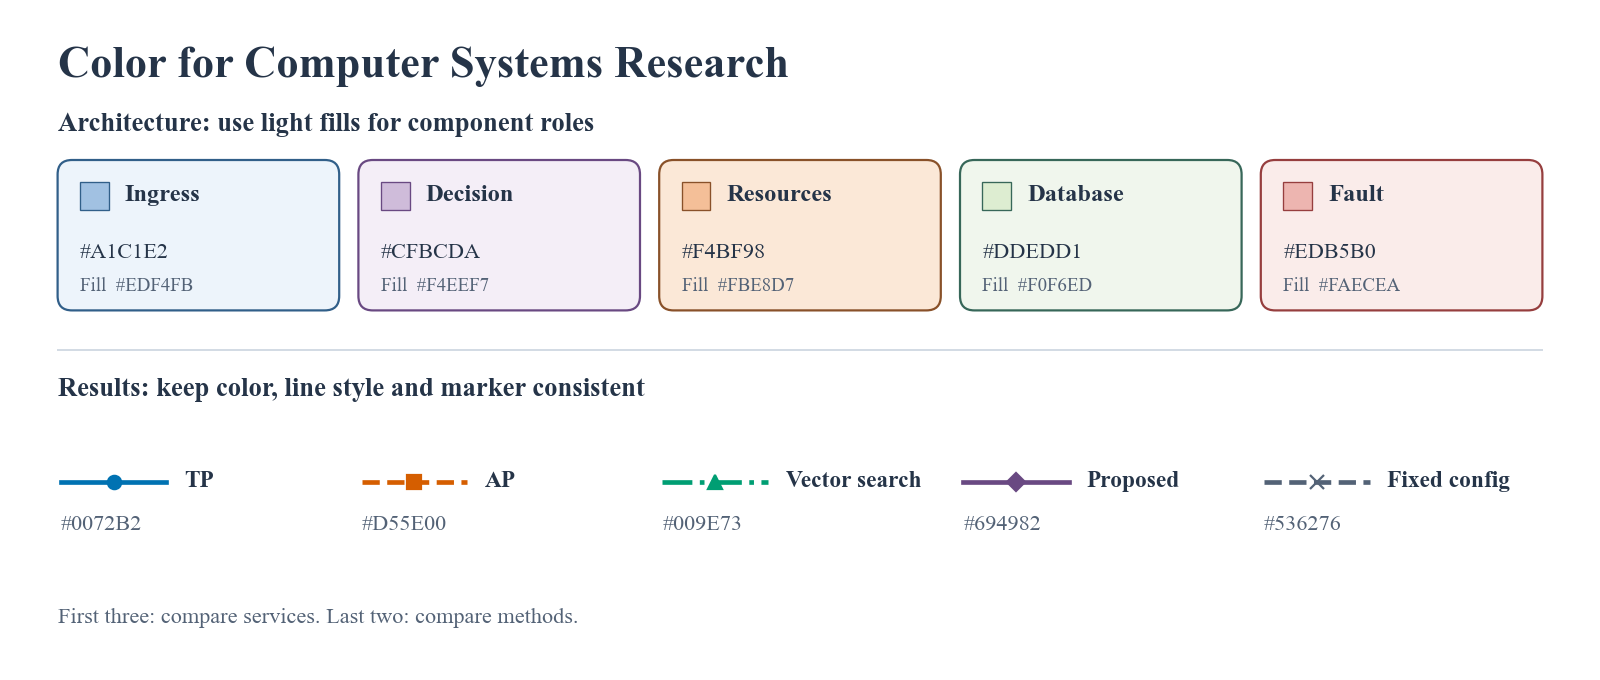
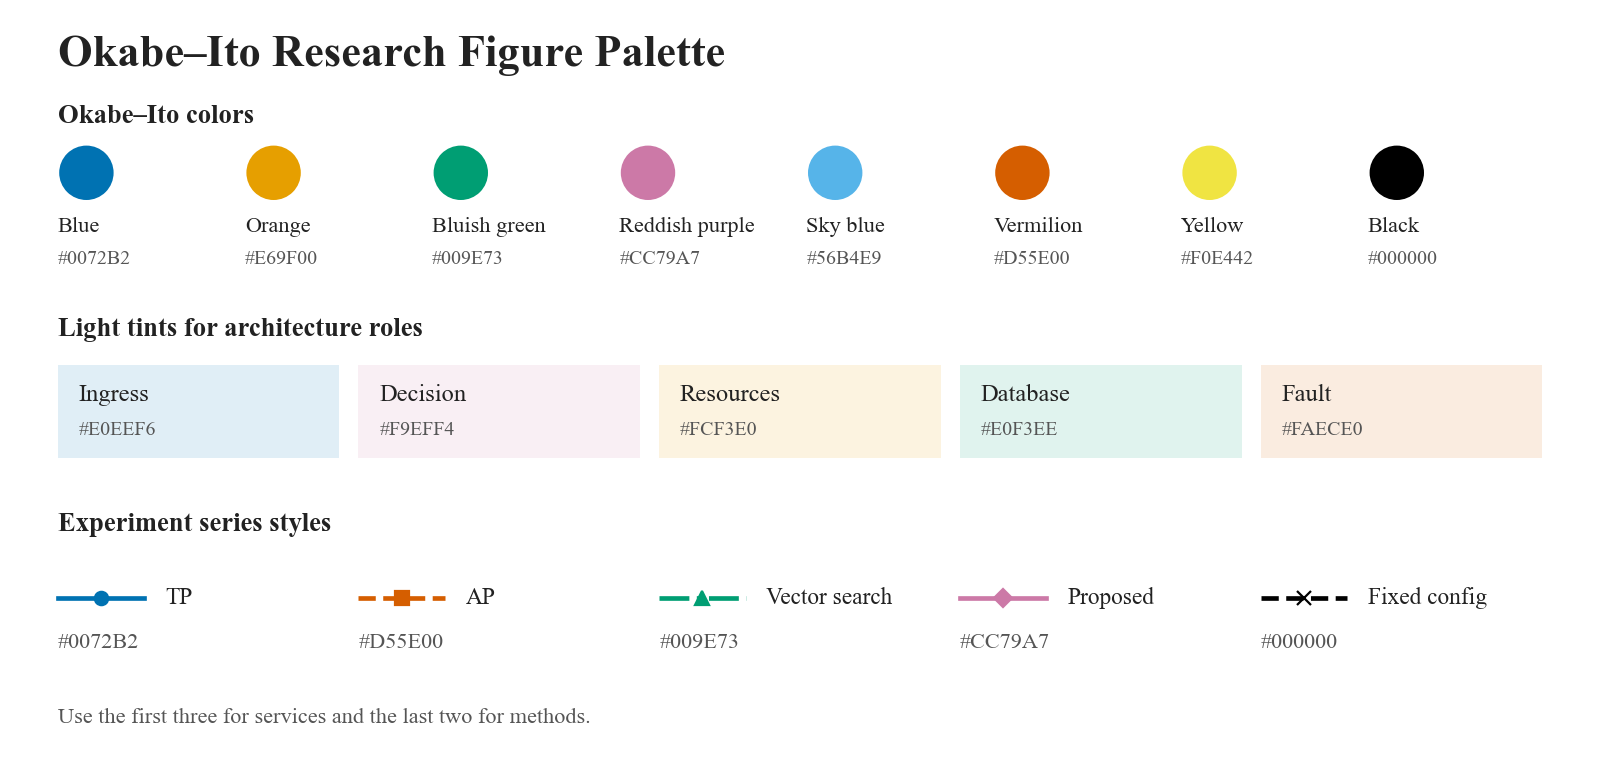
docs: standardize on a borderless Okabe–Ito style

diff --git a/scripts/preview_palette.py b/scripts/preview_palette.py
@@ -6,7 +6,7 @@ import matplotlib
 
 matplotlib.use("Agg")
 import matplotlib.pyplot as plt
-from matplotlib.patches import FancyBboxPatch, Rectangle
+from matplotlib.patches import Circle, Rectangle
 
 
 ASSETS = Path(__file__).resolve().parents[1] / "assets"
@@ -27,49 +27,55 @@ def contrast(foreground, background):
 
 def check_contrast(theme):
     neutral = theme["neutral"]
+    anchors = {spec["color"] for spec in theme["okabe_ito"].values()}
     for role, spec in theme["architecture"].items():
-        for background in (spec["base"], spec["fill"]):
-            assert contrast(neutral["text"], background) >= 4.5, role
+        assert spec["base"] in anchors, role
+        assert contrast(neutral["text"], spec["fill"]) >= 4.5, role
         assert contrast(spec["ink"], spec["fill"]) >= 3, role
     for styles in (theme["plot"]["services"], theme["plot"]["methods"]):
         for key, spec in styles.items():
+            assert spec["color"] in anchors, key
             assert contrast(spec["color"], neutral["background"]) >= 3, key
 
 
 def draw(theme):
     plt.style.use(ASSETS / "paper.mplstyle")
     color = theme["neutral"]
-    fig, ax = plt.subplots(figsize=(10, 4.25), layout="none")
+    headings = theme["card_labels"]
+    fig, ax = plt.subplots(figsize=(10, 4.75), layout="none")
     fig.subplots_adjust(left=0, right=1, bottom=0, top=1)
-    ax.set(xlim=(0, 1000), ylim=(425, 0))
+    ax.set(xlim=(0, 1000), ylim=(475, 0))
     ax.axis("off")
 
     def text(x, y, value, size, *, bold=False, fill=None):
         ax.text(x, y, value, fontsize=size, color=fill or color["text"],
                 fontweight="bold" if bold else "normal", va="center")
 
-    text(36, 42, "Color for Computer Systems Research", 20, bold=True)
-    text(36, 78, "Architecture: use light fills for component roles", 12, bold=True)
+    text(36, 35, theme["name"], 20, bold=True)
+    text(36, 73, headings["swatches"], 12, bold=True)
+    for i, spec in enumerate(theme["okabe_ito"].values()):
+        x = 36 + 117 * i
+        ax.add_patch(Circle((x + 18, 108), 17, facecolor=spec["color"], edgecolor="none", linewidth=0))
+        text(x, 142, spec["label"], 10)
+        text(x, 162, spec["color"], 9, fill=color["muted"])
+
+    text(36, 206, headings["architecture"], 12, bold=True)
     for i, spec in enumerate(theme["architecture"].values()):
         x = 36 + 188 * i
-        ax.add_patch(FancyBboxPatch((x, 100), 176, 94, boxstyle="round,pad=0,rounding_size=9",
-                                    facecolor=spec["fill"], edgecolor=spec["ink"], linewidth=1))
-        ax.add_patch(Rectangle((x + 14, 114), 18, 17, facecolor=spec["base"], edgecolor=spec["ink"], linewidth=.6))
-        text(x + 42, 122, spec["label"], 11, bold=True)
-        text(x + 14, 158, spec["base"], 10)
-        text(x + 14, 179, f'Fill  {spec["fill"]}', 8.5, fill=color["muted"])
+        ax.add_patch(Rectangle((x, 228), 176, 58, facecolor=spec["fill"], edgecolor="none", linewidth=0))
+        text(x + 13, 247, spec["label"], 11)
+        text(x + 13, 269, spec["fill"], 9, fill=color["muted"])
 
-    ax.plot((36, 964), (219, 219), color=color["rule"], linewidth=.9)
-    text(36, 244, "Results: keep color, line style and marker consistent", 12, bold=True)
+    text(36, 328, headings["results"], 12, bold=True)
     entries = [*theme["plot"]["services"].values(), *theme["plot"]["methods"].values()]
     for i, spec in enumerate(entries):
         x = 36 + 188 * i
-        ax.plot([x + 2, x + 35, x + 68], [301] * 3, color=spec["color"],
+        ax.plot([x, x + 27, x + 54], [374] * 3, color=spec["color"],
                 linestyle=spec["linestyle"], marker=spec["marker"], markevery=[1],
                 markersize=6, linewidth=2.1)
-        text(x + 79, 301, spec["label"], 10.5, bold=True)
-        text(x + 2, 328, spec["color"], 10, fill=color["muted"])
-    text(36, 386, "First three: compare services. Last two: compare methods.", 10, fill=color["muted"])
+        text(x + 67, 374, spec["label"], 10.5)
+        text(x, 402, spec["color"], 10, fill=color["muted"])
+    text(36, 449, headings["note"], 10, fill=color["muted"])
     fig.savefig(ASSETS / "palette-card.png", dpi=160)
     plt.close(fig)
 

diff --git a/SKILL.md b/SKILL.md
@@ -5,18 +5,18 @@ description: Draw or restyle editable architecture, method, and results figures 
 
 # Database Research Figures
 
-Use the labels and requirements in the user's paper or target venue first. Read [palette.json](assets/palette.json) for the default role and series mappings, and refer to the [icon catalog](assets/icons/ATTRIBUTION.md) for consistent SVG assets.
+Use the labels and requirements in the user's paper or target venue first. Read [palette.json](assets/palette.json) for the shared Okabe–Ito colors, derived tints, and series mappings. Refer to the [icon catalog](assets/icons/ATTRIBUTION.md) for consistent SVG assets.
 
 ## Architecture and method figures
 
 - Place clients, ingress, processing components, and deployment boundaries before styling. Attach arrows to their real endpoints. For primary–replica deployments, show where writes and eligible reads go, which node sends replication data, and which component issues control commands. Use a dashed connector for control signals and label connections that could be misread.
-- Group related elements under one understated boundary. Use pale blue for access, lavender for decisions, apricot for resources, pale green for database nodes, and pale red for a marked fault. Draw a readable system diagram with thin lines and a few labels. Add an icon when it identifies an entity, such as a database cylinder, server, or storage volume.
+- Group related elements using alignment, whitespace, short labels, and light tints without outlines. Use blue for access, reddish purple for decisions, orange for resources, and bluish green for replicas. Use strokes for real connections such as routing, replication, and control. Add an icon when it identifies an entity, such as a database cylinder, server, or storage volume.
 - Use the paper's fonts if specified. A thesis can use regular Times New Roman with Song-style CJK text, or another consistent, legible pair. Use a small size hierarchy, with normal-weight component labels. Use separate labels, ordinary punctuation, or line breaks for lists. Avoid decorative dot separators and repeated header cards.
 - Preserve the proportions and transparency of product artwork supplied for the figure. Use generic icons for reusable examples. Follow the relevant asset license when sharing a figure or its source.
 
 ## Experimental plots
 
-- Use [paper.mplstyle](assets/paper.mplstyle) and bind `plot.services` or `plot.methods` to names. Keep colors, line styles, and marker shapes stable across figures. If a plot compares two dimensions, assign color to one and use panels or another channel for the other.
+- Use [paper.mplstyle](assets/paper.mplstyle) and bind `plot.services` or `plot.methods` to names. Keep colors, line styles, and marker shapes stable across figures. Use a white canvas, an unframed legend, and left and bottom axes as the default for line and scatter plots. If a plot compares two dimensions, assign color to one and use panels or another channel for the other.
 - Label axes and units. Distinguish measured results from illustrations. Check that legend keys and line styles remain readable in grayscale at the paper's actual width.
 
 ## Delivery

diff --git a/README.md b/README.md
@@ -1,6 +1,6 @@
 # Database Research Figures
 
-A Codex skill, a consistent paper palette, and a compact SVG icon library for database and computer-systems research. Architecture diagrams show component boundaries and concrete endpoints. Results plots preserve the meaning of series across figures.
+A Codex skill, a consistent paper palette, and a compact SVG icon library for database and computer-systems research. Use one Okabe–Ito palette across figures. Architecture diagrams group components with whitespace and light tints, while experiments use stable colors and line styles on white.
 
 ![Palette for architecture diagrams and experiment plots](assets/palette-card.png)
 
@@ -25,8 +25,8 @@ Then ask Codex: “Use `$scientific-figure-style` to draw the read/write paths, 
 | Resource | Purpose |
 | --- | --- |
 | [Skill instructions](SKILL.md) | Typography, architecture layout, series encoding, and delivery checks |
-| [Color definitions](assets/palette.json) | Soft architecture colors and stable experiment-series styles |
-| [Matplotlib stylesheet](assets/paper.mplstyle) | White background, print-friendly typography, and line defaults |
+| [Color definitions](assets/palette.json) | Eight Okabe–Ito colors, architecture tints, and stable series styles |
+| [Matplotlib stylesheet](assets/paper.mplstyle) | White background, left and bottom axes, and an unframed legend |
 | [Icon catalog](assets/icons/ATTRIBUTION.md) | 20 original Lucide SVGs, grouped by systems role |
 | [Primary–replica POS example](examples/primary-replica.pos) | Editable layout for a generic database cluster |
 | [Related drawing workflows](references/related-workflows.md) | Source-based layouts, final-size review, and figure tools |
@@ -45,4 +45,4 @@ Keep the palette, documentation, and preview aligned when changing a color. For 
 
 Repository-authored material is [MIT licensed](LICENSE). Bundled Lucide icons retain the [upstream license](assets/icons/LICENSE). The icon library contains generic systems symbols; use your own authorized image if you need a product mark.
 
-The experimental palette follows [Okabe–Ito Color Universal Design](https://jfly.uni-koeln.de/color/index.html). Figure accessibility guidance comes from the [Nature research figure guide](https://research-figure-guide.nature.com/figures/preparing-figures-our-specifications/). For POS geometry, see [generate-pos-flowchart](https://github.com/lilyjem/generate-pos-flowchart) and the ProcessOn import documentation.
+The shared palette follows [Okabe–Ito Color Universal Design](https://jfly.uni-koeln.de/color/index.html). Figure accessibility guidance comes from the [Nature research figure guide](https://research-figure-guide.nature.com/figures/preparing-figures-our-specifications/). For POS geometry, see [generate-pos-flowchart](https://github.com/lilyjem/generate-pos-flowchart) and the ProcessOn import documentation.
